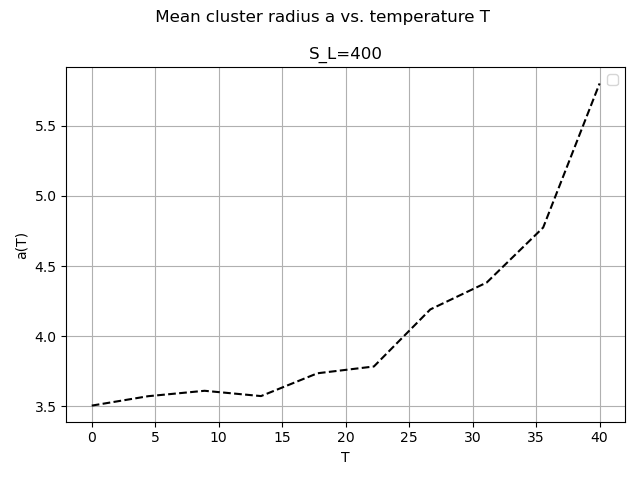
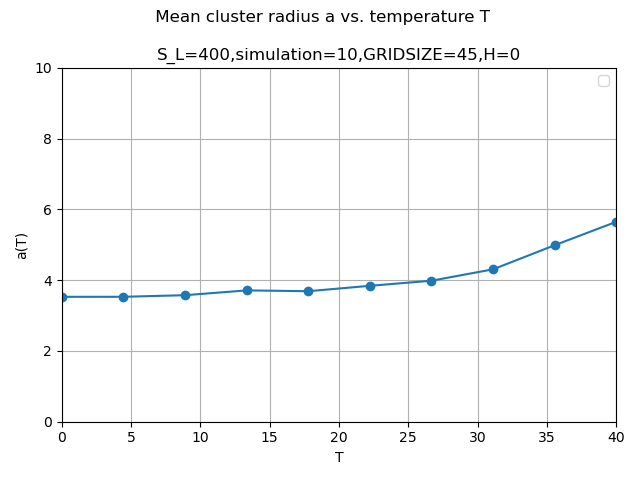
update beautiful fig3 and fig4

diff --git a/demos/fig4.py b/demos/fig4.py
@@ -10,50 +10,78 @@ import matplotlib.pyplot as plt
 import ca.CA_module as ca
 
 # Parameters
-GRIDSIZE_X, GRIDSIZE_Y = 55, 55
+GRIDSIZE_X, GRIDSIZE_Y = 45, 45
 TIMESTEPS = 10
 BETA_PEOPLE = 1
 BETA_LEADER = 1
 H = 0
 p = 1
 p_1 = 0
-
-
 INFLUENCE_DISTRIBUTION_MEAN = 1
 
-INFLUENCE_LEADER_RANGE = np.linspace(0, 500, 8) 
-TEMPERATURE_RANGE = np.linspace(0, 120, 10) 
+NUM_OF_INFLUENCE_LEADER_RANGE = 7
+NUM_OF_TEMPERATURE_RANGE = 10
+MAX_LEADER_INFLUNCE = 500
+MAX_TEMPERATURE = 120
 
+INFLUENCE_LEADER_RANGE = np.linspace(0, MAX_LEADER_INFLUNCE, NUM_OF_INFLUENCE_LEADER_RANGE) 
+TEMPERATURE_RANGE = np.linspace(0, MAX_TEMPERATURE, NUM_OF_TEMPERATURE_RANGE) 
 
-critical_temperatures = []
+SIMULATION_TIMES = 5   # Run times
 
+all_critical_temperatures = [[0] * NUM_OF_INFLUENCE_LEADER_RANGE for _ in range(SIMULATION_TIMES)]  #2D list for calculate the final average cirtical temperature 
 
-for influence_leader in INFLUENCE_LEADER_RANGE:
-    order_parameter = []
-    for temperature in TEMPERATURE_RANGE:
+#print("all_critical_temperatue",all_critical_temperatures)
+
+final_critical_temperatures = []
+
+for s in range(SIMULATION_TIMES):
+
+    critical_temperatures = []
         
-        model = ca.CA(GRIDSIZE_X, GRIDSIZE_Y, temperature, BETA_LEADER, BETA_PEOPLE, H,
-                   p, p_1, influence_leader, INFLUENCE_DISTRIBUTION_MEAN,
-                   ca.euclidean_distance, ca.prob_dist_influence_people)
-
-        data = model.evolve(TIMESTEPS)
+    for influence_leader in INFLUENCE_LEADER_RANGE:
         
+        order_parameter = []
         
-        final_opinions = data['opinions'][-1]
-        order_param = np.mean(final_opinions == 1) 
-        order_parameter.append(order_param)
+        for temperature in TEMPERATURE_RANGE:
+            
+            model = ca.CA(GRIDSIZE_X, GRIDSIZE_Y, temperature, BETA_LEADER, BETA_PEOPLE, H,
+                    p, p_1, influence_leader, INFLUENCE_DISTRIBUTION_MEAN,
+                    ca.euclidean_distance, ca.prob_dist_influence_people)
 
-    #Find Critical temperature
-    d_order_param = np.gradient(order_parameter, TEMPERATURE_RANGE)
-    critical_temperature_idx = np.argmax(np.abs(d_order_param))
-    critical_temperature = TEMPERATURE_RANGE[critical_temperature_idx]
+            data = model.evolve(TIMESTEPS)
+            
+            
+            final_opinions = data['opinions'][-1]
+            order_param = np.mean(final_opinions == 1) 
+            order_parameter.append(order_param)
+
+        #Find Critical temperature
+        d_order_param = np.gradient(order_parameter, TEMPERATURE_RANGE)
+        critical_temperature_idx = np.argmax(np.abs(d_order_param))
+        critical_temperature = TEMPERATURE_RANGE[critical_temperature_idx]
+        
+        critical_temperatures.append(critical_temperature)
+        
+    all_critical_temperatures[s] = critical_temperatures
+
+
+print("all_critical_temperatue",all_critical_temperatures)
+
+for n in range(NUM_OF_INFLUENCE_LEADER_RANGE):
+    temperature_collect = []
+    for s in range(SIMULATION_TIMES):
+        temperature_collect.append(all_critical_temperatures[s][n])
     
-    critical_temperatures.append(critical_temperature)
+    final_critical_temperatures.append(np.mean(temperature_collect))
+    
+print("final_cri_tem", final_critical_temperatures)
 
 # Plotting
-plt.plot(INFLUENCE_LEADER_RANGE, critical_temperatures, marker='o')
+plt.plot(INFLUENCE_LEADER_RANGE, final_critical_temperatures, marker='o')
 plt.xlabel('Leader Influence Strength')
 plt.ylabel('Critical Temperature')
-plt.title('Critical Temperature vs Leader Influence Strength')
+plt.suptitle('Critical Temperature vs Leader Influence Strength')
+plt.title(f'GRIDSIZE={GRIDSIZE_X},simulation={SIMULATION_TIMES},H={H}')
 plt.grid(True)
 plt.show()

diff --git a/demos/fig3.py b/demos/fig3.py
@@ -30,7 +30,7 @@ INFLUENCE_DISTRIBUTION_MEAN = 1
 
 
 TEMPERATURE=np.linspace(0,40,10)
-simulation_times = 8    # Run times
+simulation_times = 10    # Run times
 Mean_cluster_radius = []
 
 
@@ -65,15 +65,15 @@ print("Mean_cluster_radius",Mean_cluster_radius)
 
 # Plotting
 plt.suptitle(' Mean cluster radius a vs. temperature T')
-plt.title(f'S_L={INFLUENCE_LEADER}')
+plt.title(f'S_L={INFLUENCE_LEADER},simulation={simulation_times},GRIDSIZE={GRIDSIZE_X},H={H}')
 plt.xlabel('T')
 plt.ylabel('a(T)')
 
-# xmin,xmax = 0,30
-# ymin,ymax = 0,10
-# plt.xlim([xmin,xmax])
-# plt.ylim([ymin,ymax])
-plt.plot(TEMPERATURE,Mean_cluster_radius,c='black',linestyle='--')
+xmin,xmax = 0,40
+ymin,ymax = 0,10
+plt.xlim([xmin,xmax])
+plt.ylim([ymin,ymax])
+plt.plot(TEMPERATURE,Mean_cluster_radius,marker="o")
 
 plt.grid()
 plt.legend()

diff --git a/demos/SOC.py b/demos/SOC.py
@@ -2,7 +2,7 @@
 PSEUDOCODE TO OBTAIN POWER LAW OUT OF THE CA
 """
 
-import CA_module as ca
+import ca.CA_module as ca
 import numpy as np
 import matplotlib.pyplot as plt
 
